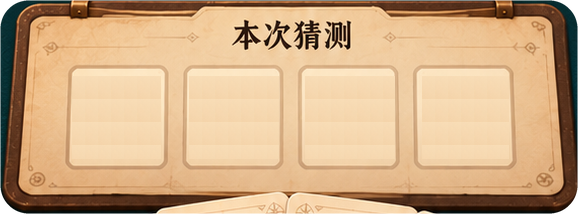
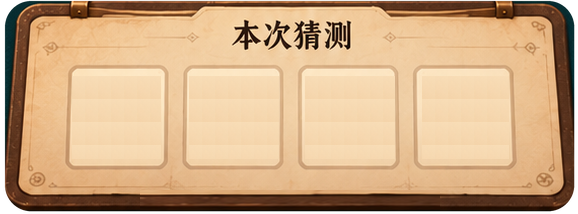
fix(ui): clean guess panel and inset gameplay keyboard

Changed region(s): [[0.0, 0.0, 1.0, 1.0], [0.218, 0.8972, 0.2803, 0.9252]]

diff --git a/assets/scripts/GameApp.ts b/assets/scripts/GameApp.ts
@@ -893,7 +893,10 @@ export class GameApp extends Component {
     if(this.opponentFeedbackActive)this.setOpponentSeatVisible(false);
     const prefix=prep?'prep-':'play-';
     for(const key of ['1','2','3','4','5','6','7','8','9','delete','0','action']) {
-      const node=art(prefix+key);
+      // Keep gameplay keys inside the leather inset, clear of the tray's metal rim.
+      const rect=BATTLE_RECTS[prefix+key];
+      const keyRect=prep?rect:rect.map((v,i)=>i%2===0?470.5+(v-470.5)*.88:1425+(v-1425)*.84);
+      const node=art(prefix+key,keyRect);
       touch(node,()=>{if(key==='action') {if(prep)this.digit('随机','secret');else this.submitGuess();}
         else this.digit(key==='delete'?'删除':key,prep?'secret':'guess');}, editable && (key!=='action'||prep||this.draft.length===4));
     }

diff --git a/scripts/repair-battle-panel.py b/scripts/repair-battle-panel.py
@@ -1,0 +1,17 @@
+"""Remove source cards from guess panel using its intact original bottom rail."""
+from pathlib import Path
+from PIL import Image, ImageDraw
+import json
+R=Path(__file__).resolve().parents[1]
+D=R/'docs/design/battle-panel-fix'
+plan={'source':'docs/design/05-gameplay-v2.png','rect':[180,722,758,936],'existingBlankPanel':'assets/resources/art/battle/guess.png','repair':{'sample':[35,190,135,214],'target':[140,190,440,214]},'mask':'4x rounded outline following metal frame; outside transparent','role':'Fixed panel and heading; native guess digits remain separate','keyboard':'Gameplay keys scaled to 88% width and 84% height about source (470.5,1425), inside unchanged tray; preparation unchanged'}
+(D/'manifest.json').write_text(json.dumps(plan,indent=2)+'\n')
+p=R/plan['existingBlankPanel']; im=Image.open(p).convert('RGBA')
+# Source rail is unobscured at the left. Only the flat lower rail is extended.
+rail=im.crop(plan['repair']['sample']).resize((300,24),Image.Resampling.LANCZOS)
+im.paste(rail,(140,190))
+m=Image.new('L',(578*4,214*4)); d=ImageDraw.Draw(m)
+d.rounded_rectangle((5*4,1*4,574*4,211*4),radius=26*4,fill=255)
+im.putalpha(m.resize(im.size,Image.Resampling.LANCZOS));im.save(p,optimize=True)
+for color,name in [('#173e3c','dark'),('#eee3ce','light')]:
+ bg=Image.new('RGB',(618,254),color);bg.paste(im,(20,20),im);bg.save(D/(name+'.png'))

diff --git a/docs/verification/battle-panel-fix/README.md b/docs/verification/battle-panel-fix/README.md
@@ -1,0 +1,8 @@
+# 对局板子与键盘修复
+
+- 本次猜测：去除底边混入的卡牌，使用同一板子的完整底边纹理补齐，并重设透明轮廓。保留原资源 UUID。
+- 对局键盘：原底盘含透明留白和较宽的金属框，旧按键挤占框边。按键围绕设计坐标 (470.5, 1425) 收至原宽 88%、高 84%，点击区域随节点同步，准备页不变。
+- 素材清单、深浅底检查：`docs/design/battle-panel-fix/`；重现脚本：`scripts/repair-battle-panel.py`（Pillow）。
+- 客户端类型检查通过；Web 和微信导出通过。微信主包 1978.7 KB，总包 27394.7 KB，低于项目 28 MiB 预算。
+- 使用 `verify-ui-repairs.cjs` 的独立对局数据验证（现有服务登录返回 400，因此以本地 fixture 初始化玩家状态）：点击输入、记录滑动/保持位置、选择卡牌、弹窗层级与长短屏均通过。截图为实际 Cocos Web 渲染，非设计稿。
+- 微信导出：`build/wechatgame/`；未执行真机验证或发布。
